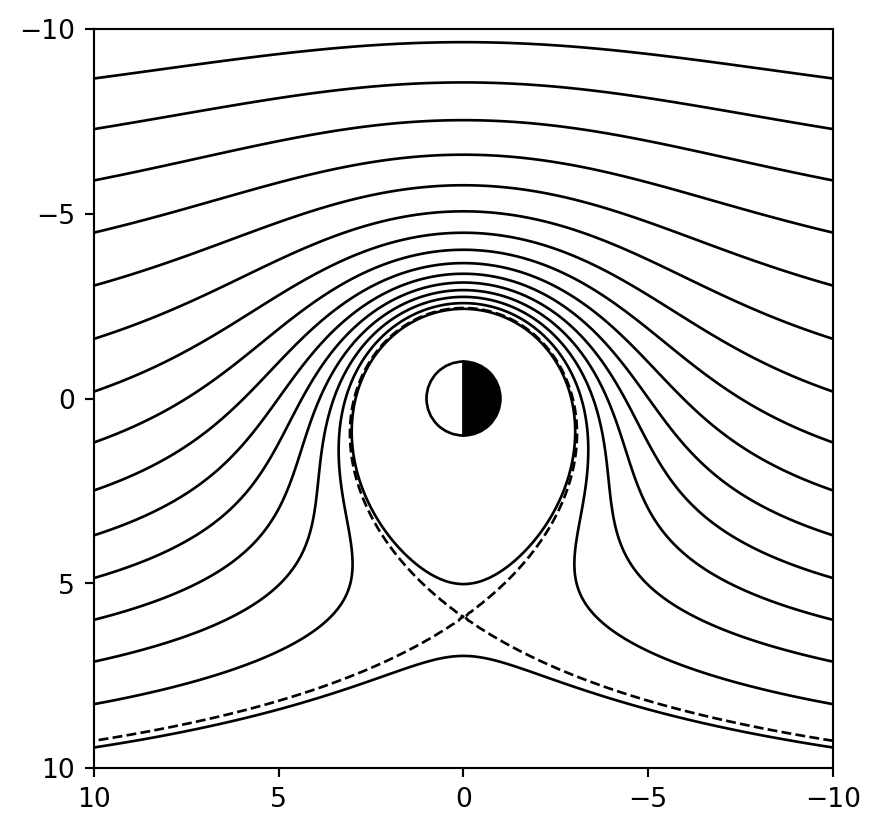
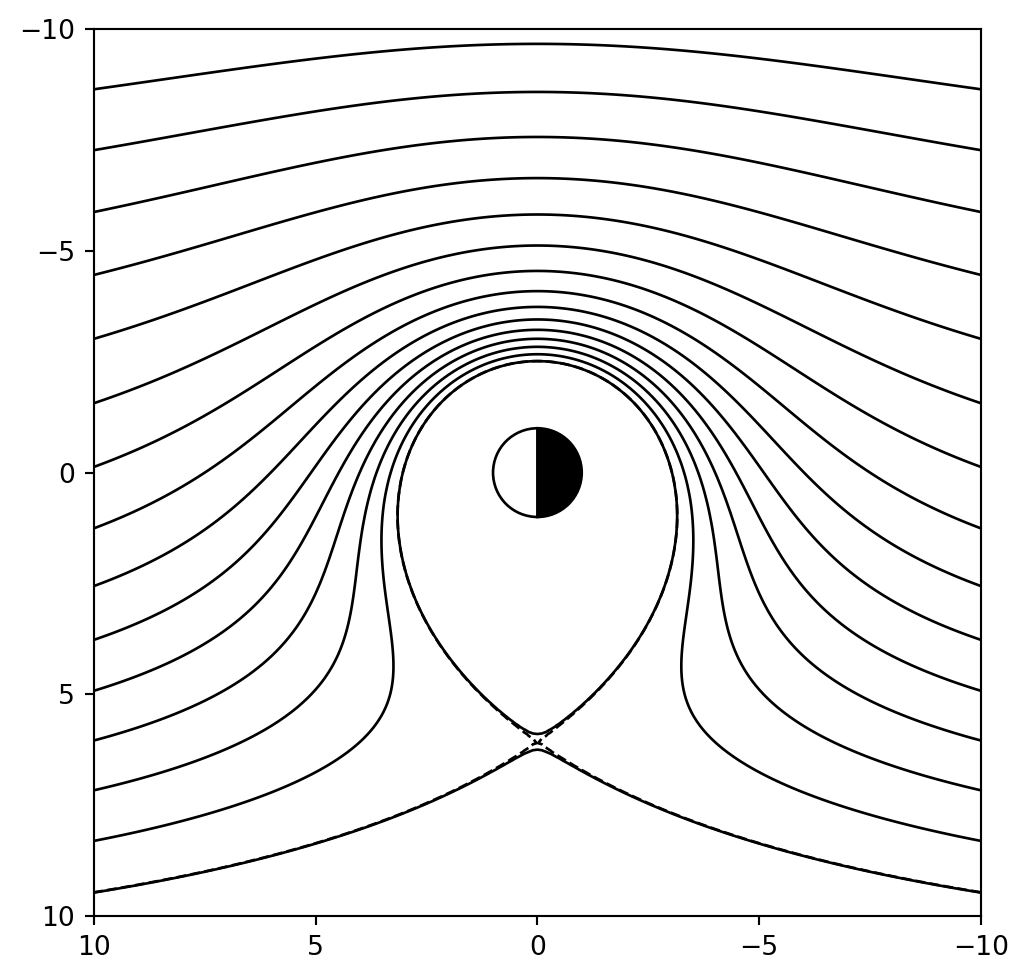
Updated chapter 2

diff --git a/docs/chap02.html b/docs/chap02.html
@@ -409,7 +409,7 @@ v_y = + v_{\perp} \sin \Omega_c t
 <img src="chap02_files/figure-html/fig-exb-drift-output-1.png" width="540" height="381" class="figure-img">
 </div>
 <figcaption class="quarto-float-caption-bottom quarto-float-caption quarto-float-fig" id="fig-exb-drift-caption-0ceaefa1-69ba-4598-a22c-09a6ac19f8ca">
-図&nbsp;2.4: 電場ドリフト
+図&nbsp;2.4: 電場ドリフト．陽子と電子は旋回方向は異なるが，平均的なドリフト速度は変わらない．
 </figcaption>
 </figure>
 </div>
@@ -547,15 +547,19 @@ J_3 = \int \bm{B} \cdot d\bm{S} = \int_0^{R} 2 \pi r B_z(r) dr
 </div>
 <p>微小パラメータを <span class="math inline">\epsilon = r_c/L \ll 1</span> と定義すると，3つの運動の時間スケールがそれぞれ <span class="math inline">\epsilon</span> のオーダーだけ異なる．従って第1断熱不変量は最も保存されやすく，逆に第3断熱不変量は最も保存されにくい．</p>
 <p>3つの周期運動の地球磁気圏における典型的な時間スケールは <a href="#fig-typical-frequency" class="quarto-xref">図&nbsp;<span>2.7</span></a> のようになる．</p>
+<div id="cell-fig-typical-frequency" class="cell" data-execution_count="4">
+<div class="cell-output cell-output-display">
 <div id="fig-typical-frequency" class="quarto-float quarto-figure quarto-figure-center anchored">
 <figure class="quarto-float quarto-float-fig figure">
 <div aria-describedby="fig-typical-frequency-caption-0ceaefa1-69ba-4598-a22c-09a6ac19f8ca">
-<img src="figures/three_frequencies.png" class="img-fluid figure-img" style="width:80.0%">
+<img src="chap02_files/figure-html/fig-typical-frequency-output-1.png" width="670" height="820" class="figure-img">
 </div>
 <figcaption class="quarto-float-caption-bottom quarto-float-caption quarto-float-fig" id="fig-typical-frequency-caption-0ceaefa1-69ba-4598-a22c-09a6ac19f8ca">
-図&nbsp;2.7: 地球磁気圏における3つの周期運動の周波数 <span class="citation" data-cites="KivelsonRussell1995">(Kivelson and Russell 1995)</span>
+図&nbsp;2.7: 地球磁気圏における3つの周期運動の周波数．各プロットの縦軸は粒子のエネルギー，横軸は地球からの距離（<span class="math inline">L</span>値）を表わす．
 </figcaption>
 </figure>
+</div>
+</div>
 </div>
 <div id="exr-three-motion-timescale" class="theorem exercise">
 <p><span class="theorem-title"><strong>演習問題 2.11</strong></span> 双極子磁場のような軸対称な磁場構造中における十分エネルギーの小さな荷電粒子は，ジャイロ運動，バウンス運動，ドリフト運動，の時間スケールの異なる3つの周期運動をする．粒子のジャイロ半径 <span class="math inline">r_c</span> と系の典型的な空間スケール <span class="math inline">L</span> の比を <span class="math inline">\epsilon = r_c/L (\ll 1)</span> とするとき，3つの周期運動の時間スケール <span class="math inline">T_\text{gyro}, T_\text{bounce}, T_\text{drift}</span> がそれぞれ，<span class="math inline">\Omega_c T_\text{gyro} \sim O(1)</span>，<span class="math inline">\Omega_c T_\text{bounce} \sim O(\epsilon^{-1})</span>, <span class="math inline">\Omega_c T_\text{drift} \sim O(\epsilon^{-2})</span> となることを確かめよ．</p>
@@ -616,12 +620,12 @@ B(x) \simeq B_0 + \frac{\partial B}{\partial x} \Biggr|_{x=0} x
 \Phi = \Phi_{\rm c} + \Phi_{\rm sw} =
 - \frac{B_E \Omega_E R_E^3}{r} - r E_0 \sin \phi
 \qquad(2.7)</span></span> となり，粒子軌道は <a href="#fig-lowenergy-drift" class="quarto-xref">図&nbsp;<span>2.9</span></a> のようになる． 軌道が閉じた領域は地球の電離圏起源のプラズマで満たされており，プラズマ圏と呼ばれる． 典型的なプラズマ圏の大きさは地球半径の数倍程度である．</p>
-<div id="cell-fig-lowenergy-drift" class="cell" data-execution_count="4">
+<div id="cell-fig-lowenergy-drift" class="cell" data-execution_count="5">
 <div class="cell-output cell-output-display">
 <div id="fig-lowenergy-drift" class="quarto-float quarto-figure quarto-figure-center anchored">
 <figure class="quarto-float quarto-float-fig figure">
 <div aria-describedby="fig-lowenergy-drift-caption-0ceaefa1-69ba-4598-a22c-09a6ac19f8ca">
-<img src="chap02_files/figure-html/fig-lowenergy-drift-output-1.png" width="440" height="416" class="figure-img">
+<img src="chap02_files/figure-html/fig-lowenergy-drift-output-1.png" width="514" height="490" class="figure-img">
 </div>
 <figcaption class="quarto-float-caption-bottom quarto-float-caption quarto-float-fig" id="fig-lowenergy-drift-caption-0ceaefa1-69ba-4598-a22c-09a6ac19f8ca">
 図&nbsp;2.9: 地球磁気圏内の低エネルギー粒子の軌道
@@ -641,12 +645,12 @@ v_{E} \propto \frac{E_0}{B} \propto r^3,
 \quad
 v_{G} \propto \mu \frac{1}{B} \frac{\partial B}{\partial r} \propto \frac{1}{r}
 </span> となり，遠方では電場ドリフトが優勢だが，地球に近いほど磁場勾配ドリフトが優勢になることが分かる． ここで粒子のエネルギー太陽風電場の強さによって，粒子の到達できる限界の位置が決まっていることに注意． 実際に典型的な粒子の軌道を図示したものが <a href="#fig-highenergy-drift" class="quarto-xref">図&nbsp;<span>2.10</span></a> である．</p>
-<div id="cell-fig-highenergy-drift" class="cell" data-execution_count="5">
+<div id="cell-fig-highenergy-drift" class="cell" data-execution_count="6">
 <div class="cell-output cell-output-display">
 <div id="fig-highenergy-drift" class="quarto-float quarto-figure quarto-figure-center anchored">
 <figure class="quarto-float quarto-float-fig figure">
 <div aria-describedby="fig-highenergy-drift-caption-0ceaefa1-69ba-4598-a22c-09a6ac19f8ca">
-<img src="chap02_files/figure-html/fig-highenergy-drift-output-1.png" width="339" height="654" class="figure-img">
+<img src="chap02_files/figure-html/fig-highenergy-drift-output-1.png" width="474" height="950" class="figure-img">
 </div>
 <figcaption class="quarto-float-caption-bottom quarto-float-caption quarto-float-fig" id="fig-highenergy-drift-caption-0ceaefa1-69ba-4598-a22c-09a6ac19f8ca">
 図&nbsp;2.10: 地球磁気圏内の低エネルギー粒子の軌道
